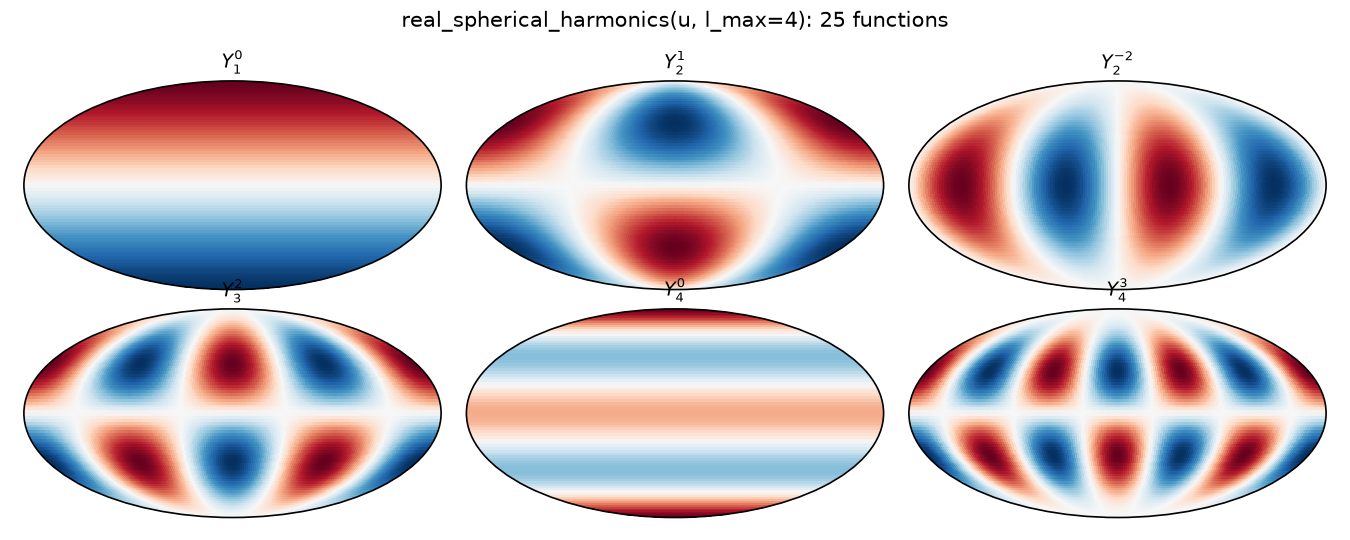
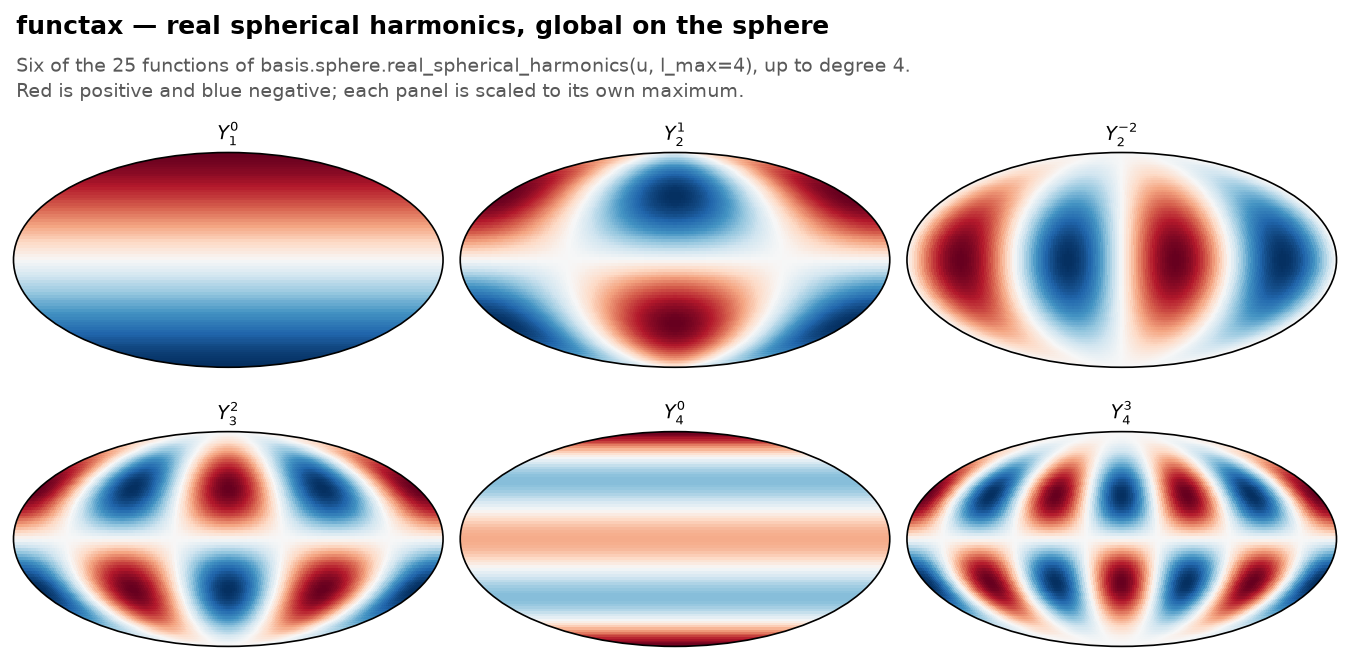
docs(figures): give the specimen figures a title, a subtitle and their colour scales (#143)
Each figure now says its idea in the title and names the call and how its
colours are scaled in the subtitle. The panel titles no longer overlap the row
above, the methane example shares one colour bar across its first three
panels and labels its two RMS values, and figures.py takes --only to redraw
one figure. It switches on float64 at the top, as both docs pages do, so a
figure drawn alone matches a full run.

diff --git a/docs/assets/readme/figures.py b/docs/assets/readme/figures.py
@@ -6,9 +6,13 @@ the example's figure is drawn from what they computed, so the numbers the
 pages quote and the picture come from the same run (they are logged). The
 gallery figures call the bases directly.
 
-Run from the repo root (about a minute on a laptop CPU):
+Each figure has a title that says its idea and a subtitle that names the call
+and how its colours are scaled. Run from the repo root (about a minute on a
+laptop CPU), all figures or the ones named:
 
     uv run --group dev --with matplotlib python docs/assets/readme/figures.py
+    uv run --group dev --with matplotlib python docs/assets/readme/figures.py \\
+        --only sh_basis
 """
 
 from __future__ import annotations
@@ -17,17 +21,24 @@ import re
 from pathlib import Path
 
 import einx
+import jax
 import jax.numpy as jnp
 import matplotlib.pyplot as plt
 import numpy as np
+from cyclopts import App
 from loguru import logger
 
-from functax.basis.slepian import slepian_cap_basis
+from functax.basis.slepian import shannon_number, slepian_cap_basis
 from functax.basis.sphere import needlet_basis, real_spherical_harmonics
 from functax.geometry import lonlat_to_unit
 
 
+# Both docs pages switch on float64 in their first block; doing it here too
+# keeps a figure drawn alone (--only) the same as in a full run.
+jax.config.update("jax_enable_x64", True)
+
 OUT = Path(__file__).parent
+app = App(help="Draw the README's and the docs' figures from the docs' own code.")
 QUICKSTART = OUT.parents[1] / "guide" / "quickstart.md"
 METHANE = OUT.parents[1] / "guide" / "methane.md"
 
@@ -51,10 +62,33 @@ def run(page: Path, heading: str | None = None) -> dict:
 
 
 def save(fig: plt.Figure, name: str) -> None:
-    """Lay out a figure and write it next to this script at 150 dpi."""
-    fig.tight_layout()
+    """Write a figure next to this script at 150 dpi."""
     fig.savefig(OUT / name, dpi=150)
     plt.close(fig)
+    logger.info("wrote {}", name)
+
+
+def headed(
+    title: str, subtitle: str, size: tuple[float, float]
+) -> tuple[plt.Figure, float]:
+    """A figure with a bold title and a muted subtitle in a 0.75-inch band on top.
+
+    Returns the figure and the top of the space below the band, as a fraction of
+    the figure height, for the caller's ``fig.subplots_adjust``.
+    """
+    fig = plt.figure(figsize=size)
+    height = size[1]
+    fig.text(0.012, 1 - 0.1 / height, title, fontsize=12, fontweight="bold", va="top")
+    fig.text(
+        0.012,
+        1 - 0.36 / height,
+        subtitle,
+        fontsize=9,
+        color="0.35",
+        va="top",
+        linespacing=1.35,
+    )
+    return fig, 1 - 0.75 / height
 
 
 # ---------------------------------------------------------------- quick start
@@ -99,16 +133,37 @@ def example_figure() -> None:
         return einx.id("(lon lat) -> lat lon", np.asarray(values), lon=100)
 
     lo, hi = 1875.0, 1925.0
-    fig, axes = plt.subplots(1, 4, figsize=(13, 3.3))
+    n_cells = int(ns["truth"].shape[0])
+    fig, top = headed(
+        "functax — a methane plume mapped from cloud-free pixels",
+        f"The methane example as written: {n_pixels:,} pixels with 8 ppb of noise, "
+        f"mapped onto all {n_cells:,} cells by project.Variational.\n"
+        "The first three panels share one colour scale; the error is x̂ − x, red "
+        "where the map is too high.",
+        (13, 4.1),
+    )
+    # three panels and their shared bar, a gap, then the error and its bar
+    grid = fig.add_gridspec(
+        1,
+        7,
+        width_ratios=[1, 1, 1, 0.05, 0.3, 1, 0.05],
+        left=0.05,
+        right=0.955,
+        bottom=0.13,
+        top=top - 0.1,
+        wspace=0.12,
+    )
+    axes = [fig.add_subplot(grid[0, i]) for i in (0, 1, 2, 5)]
+    shared_bar, error_bar = fig.add_subplot(grid[0, 3]), fig.add_subplot(grid[0, 6])
     panels = [
-        (ns["truth"], "truth x (ppb)"),
-        (None, "cloud-free pixels y (ppb)"),
-        (ns["xch4_map"], "map x̂ from the pixels (ppb)"),
+        (ns["truth"], "truth x"),
+        (None, "cloud-free pixels y"),
+        (ns["xch4_map"], "map x̂ from the pixels"),
     ]
     for ax, (field, title) in zip(axes[:3], panels, strict=True):
         if field is None:
             pixels = np.asarray(ns["pixels"])
-            ax.scatter(
+            shared = ax.scatter(
                 pixels[:, 0],
                 pixels[:, 1],
                 c=np.asarray(ns["observations"]),
@@ -128,22 +183,32 @@ def example_figure() -> None:
                 vmax=hi,
                 cmap="viridis",
             )
-        ax.set_title(title, fontsize=9)
+        ax.set_title(title, fontsize=10)
+    bar = fig.colorbar(shared, cax=shared_bar)
+    bar.set_label("XCH₄ (ppb)", fontsize=8)
+    bar.ax.tick_params(labelsize=7)
     error = image(ns["map_error"])
     bound = float(einx.max("[lat lon]", np.abs(error)))
     shown = axes[3].imshow(
         error, origin="lower", extent=extent, vmin=-bound, vmax=bound, cmap="RdBu_r"
     )
     axes[3].set_title(
-        f"error x̂ − x: {ns['observed_rmse']:.2f} / {ns['cloudy_rmse']:.2f} ppb RMS",
+        f"error x̂ − x, RMS {ns['observed_rmse']:.2f} ppb\n"
+        f"cloud-free, {ns['cloudy_rmse']:.2f} ppb cloudy",
         fontsize=9,
     )
-    fig.colorbar(shown, ax=axes[3], fraction=0.046)
+    bar = fig.colorbar(shown, cax=error_bar)
+    bar.set_label("ppb", fontsize=8)
+    bar.ax.tick_params(labelsize=7)
     for ax in axes:
+        ax.set_aspect("equal")
         ax.set_xlabel("longitude (°)", fontsize=8)
         ax.set_xticks([-104.0, -103.8, -103.6])
         ax.tick_params(labelsize=7)
     axes[0].set_ylabel("latitude (°)", fontsize=8)
+    # the middle panels share the first panel's latitudes
+    for ax in axes[1:3]:
+        ax.tick_params(labelleft=False)
     save(fig, "example.png")
 
 
@@ -171,33 +236,71 @@ def mollweide(ax: plt.Axes, field: np.ndarray, title: str) -> None:
     ax.set_title(title, fontsize=9)
 
 
-def gallery_figures() -> None:
-    """Draw the spherical-harmonic, Slepian and needlet gallery figures."""
+def sphere_points() -> tuple[jnp.ndarray, jnp.ndarray]:
+    """The (λ, φ) of the plotting grid, and its unit vectors."""
     lonlat = jnp.asarray(einx.id("lat lon, lat lon -> (lat lon) (1 + 1)", LON, LAT))
-    xyz = lonlat_to_unit(lonlat, unit="degrees")
-    moll = {"projection": "mollweide"}
+    return lonlat, lonlat_to_unit(lonlat, unit="degrees")
 
-    # Spherical harmonics: global functions.
+
+MOLL = {"projection": "mollweide"}
+
+
+def sh_basis_figure() -> None:
+    """Six real spherical harmonics, each a global function on the sphere."""
+    _, xyz = sphere_points()
     harmonics = np.asarray(real_spherical_harmonics(xyz, 4))
-    fig, axes = plt.subplots(2, 3, figsize=(9, 3.6), subplot_kw=moll)
+    fig, top = headed(
+        "functax — real spherical harmonics, global on the sphere",
+        "Six of the 25 functions of basis.sphere.real_spherical_harmonics(u, "
+        "l_max=4), up to degree 4.\nRed is positive and blue negative; each panel "
+        "is scaled to its own maximum.",
+        (9, 4.4),
+    )
+    axes = fig.subplots(2, 3, subplot_kw=MOLL)
+    fig.subplots_adjust(
+        left=0.01,
+        right=0.99,
+        bottom=0.01,
+        top=top - 0.05,
+        wspace=0.04,
+        hspace=0.22,
+    )
     degrees_orders = [(1, 0), (2, 1), (2, -2), (3, 2), (4, 0), (4, 3)]
     for ax, (degree, order) in zip(axes.flat, degrees_orders, strict=True):
         column = degree * degree + degree + order
         mollweide(ax, harmonics[:, column], f"$Y_{{{degree}}}^{{{order}}}$")
-    fig.suptitle("real_spherical_harmonics(u, l_max=4): 25 functions", fontsize=10)
     save(fig, "sh_basis.png")
 
-    # Slepian functions: regional functions, ranked by energy inside the cap.
+
+def slepian_figure() -> None:
+    """Six Slepian functions of a 40° cap, ranked by their concentration."""
+    _, xyz = sphere_points()
     centre = jnp.deg2rad(jnp.array([-40.0, 25.0]))
     radius = np.deg2rad(40.0)
     basis = slepian_cap_basis(20, radius, lonlat_centre=centre)
     slepian = np.asarray(basis.evaluate(xyz))
     concentration = np.asarray(basis.eigenvalues)
+    # A = 2π (1 − cos r), the cap's area on the unit sphere
+    shannon = float(shannon_number(20, 2 * np.pi * (1 - np.cos(radius))))
+    logger.info(
+        "slepian: {} functions, Shannon number {:.1f}", slepian.shape[1], shannon
+    )
     pole = np.asarray(lonlat_to_unit(einx.id("d -> 1 d", centre)))[0]
     # cos θ = ⟨u, p⟩, the angle from the cap centre
     cosine = np.clip(einx.dot("point d, d -> point", np.asarray(xyz), pole), -1, 1)
     angle = einx.id("(lat lon) -> lat lon", np.arccos(cosine), lat=LAT.shape[0])
-    fig, axes = plt.subplots(2, 3, figsize=(9, 3.6), subplot_kw=moll)
+    fig, top = headed(
+        "functax — Slepian functions, concentrated in a region",
+        f"Six of the {slepian.shape[1]} functions of basis.slepian.slepian_cap_basis("
+        "l_max=20) for a 40° cap (dashed), ranked by λ,\nthe share of their energy "
+        f"inside it. Past the Shannon number, about {shannon:.0f}, they leak out; "
+        "each panel is scaled to its own maximum.",
+        (9, 4.4),
+    )
+    axes = fig.subplots(2, 3, subplot_kw=MOLL)
+    fig.subplots_adjust(
+        left=0.01, right=0.99, bottom=0.01, top=top - 0.05, wspace=0.04, hspace=0.22
+    )
     for ax, mode in zip(axes.flat, [0, 3, 15, 40, 52, 70], strict=True):
         title = f"mode {mode + 1},  λ = {concentration[mode]:.2f}"
         mollweide(ax, slepian[:, mode], title)
@@ -210,25 +313,51 @@ def gallery_figures() -> None:
             linewidths=0.7,
             linestyles="--",
         )
-    fig.suptitle(
-        "slepian_cap_basis(l_max=20, 40° cap): λ = energy inside the cap", fontsize=10
-    )
     save(fig, "slepian.png")
 
-    # Needlets: one centre, four scales.
+
+def needlets_figure() -> None:
+    """One needlet centre at four scales."""
+    _, xyz = sphere_points()
     needlets, scales, centres = map(np.asarray, needlet_basis(xyz, B=2.0, j_max=3))
     point = np.asarray(lonlat_to_unit(jnp.array([[20.0, 10.0]]), unit="degrees"))[0]
-    fig, axes = plt.subplots(1, 4, figsize=(11, 1.75), subplot_kw=moll)
+    fig, top = headed(
+        "functax — needlets, one centre at four scales",
+        "The needlet of basis.sphere.needlet_basis(u, B=2, j_max=3) nearest "
+        "(20°E, 10°N) at each scale j, each twice as fine as the last.\n"
+        "Red is positive and blue negative; each panel is scaled to its own maximum.",
+        (11, 2.55),
+    )
+    axes = fig.subplots(1, 4, subplot_kw=MOLL)
+    fig.subplots_adjust(left=0.01, right=0.99, bottom=0.02, top=top - 0.09, wspace=0.04)
     for ax, scale in zip(axes, range(4), strict=True):
         columns = np.where(scales == scale)[0]
         # the needlet of this scale whose centre is nearest the point
         closeness = einx.dot("atom d, d -> atom", centres[columns], point)
         nearest = columns[int(einx.argmax("[atom]", closeness)[0])]
-        mollweide(ax, needlets[:, nearest], f"needlet, scale j = {scale}")
+        mollweide(ax, needlets[:, nearest], f"scale j = {scale}")
     save(fig, "needlets.png")
 
 
+FIGURES = {
+    "quickstart": check_quick_start,
+    "example": example_figure,
+    "sh_basis": sh_basis_figure,
+    "slepian": slepian_figure,
+    "needlets": needlets_figure,
+}
+
+
+@app.default
+def main(*, only: list[str] | None = None) -> None:
+    """Run the quickstart check and draw every figure, or only the ones named.
+
+    Args:
+        only: Names from quickstart, example, sh_basis, slepian and needlets.
+    """
+    for name in only or FIGURES:
+        FIGURES[name]()
+
+
 if __name__ == "__main__":
-    check_quick_start()
-    example_figure()
-    gallery_figures()
+    app()
